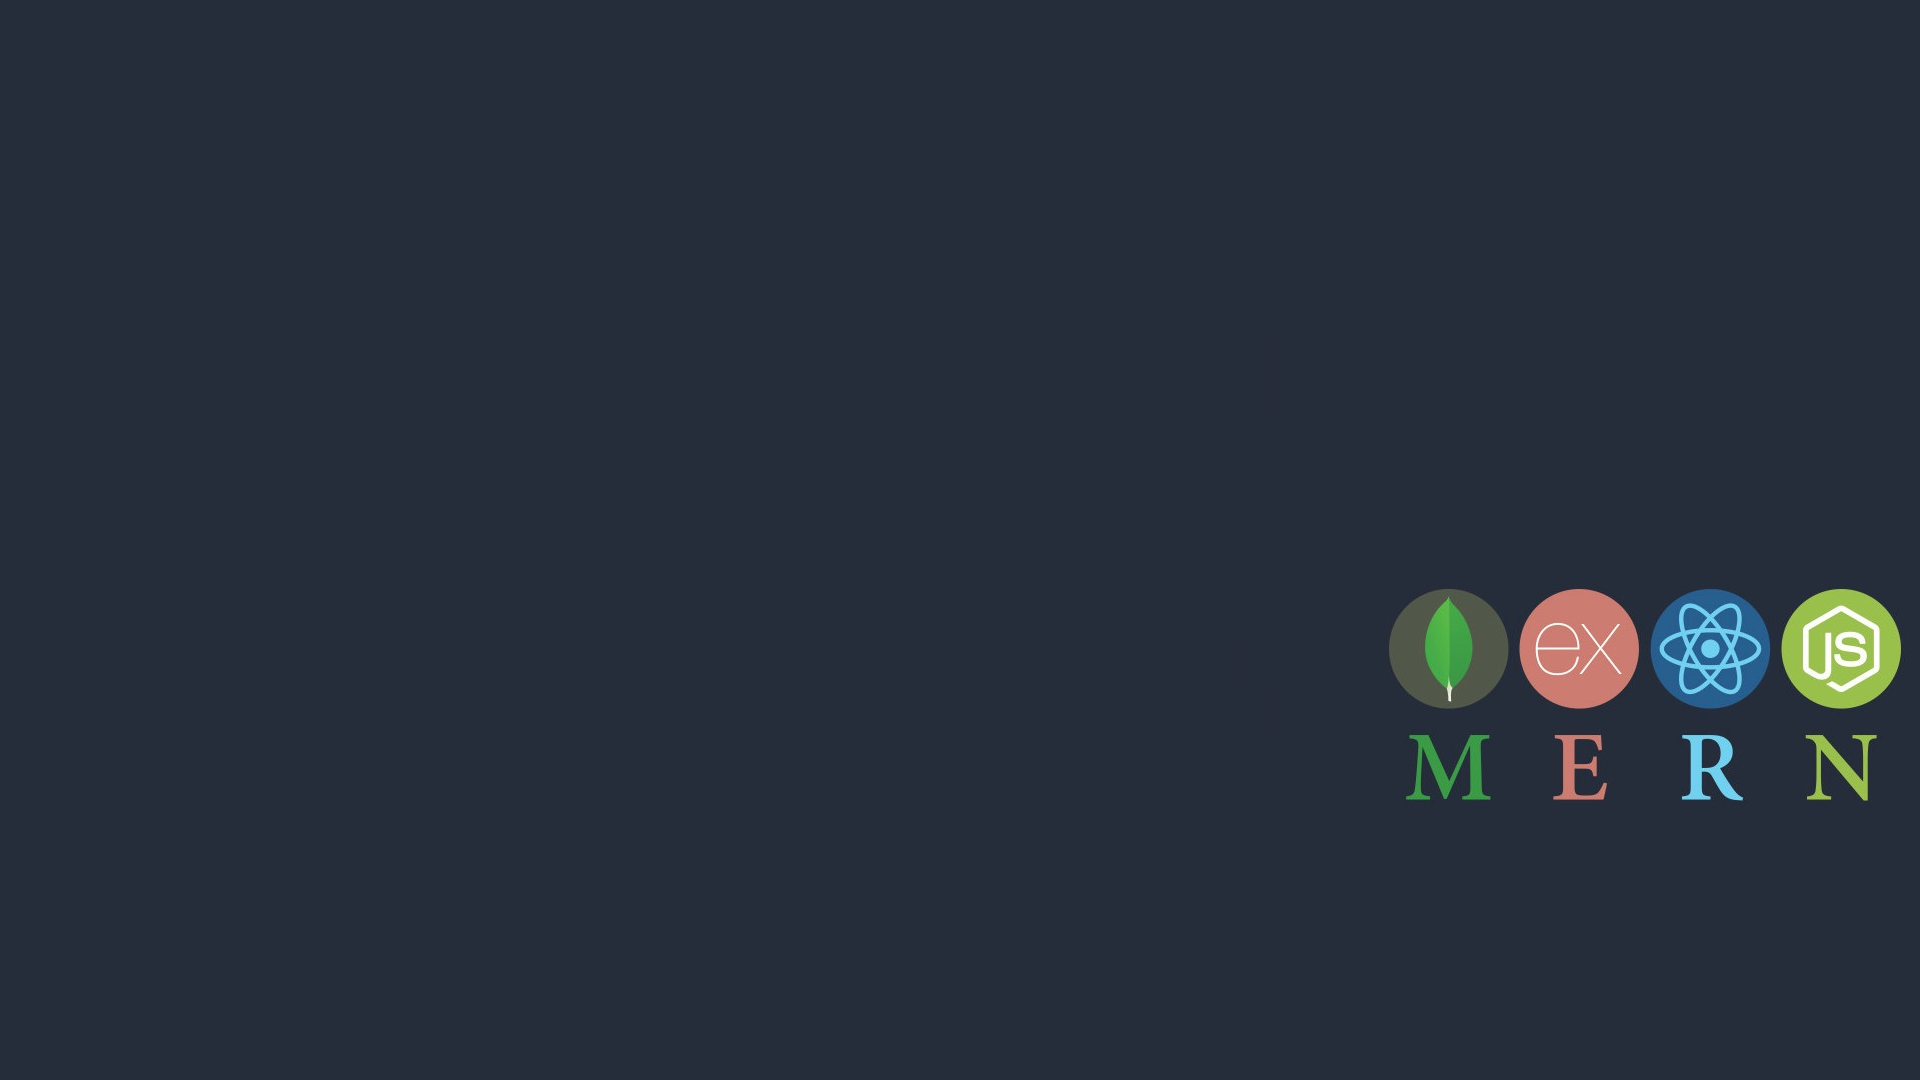
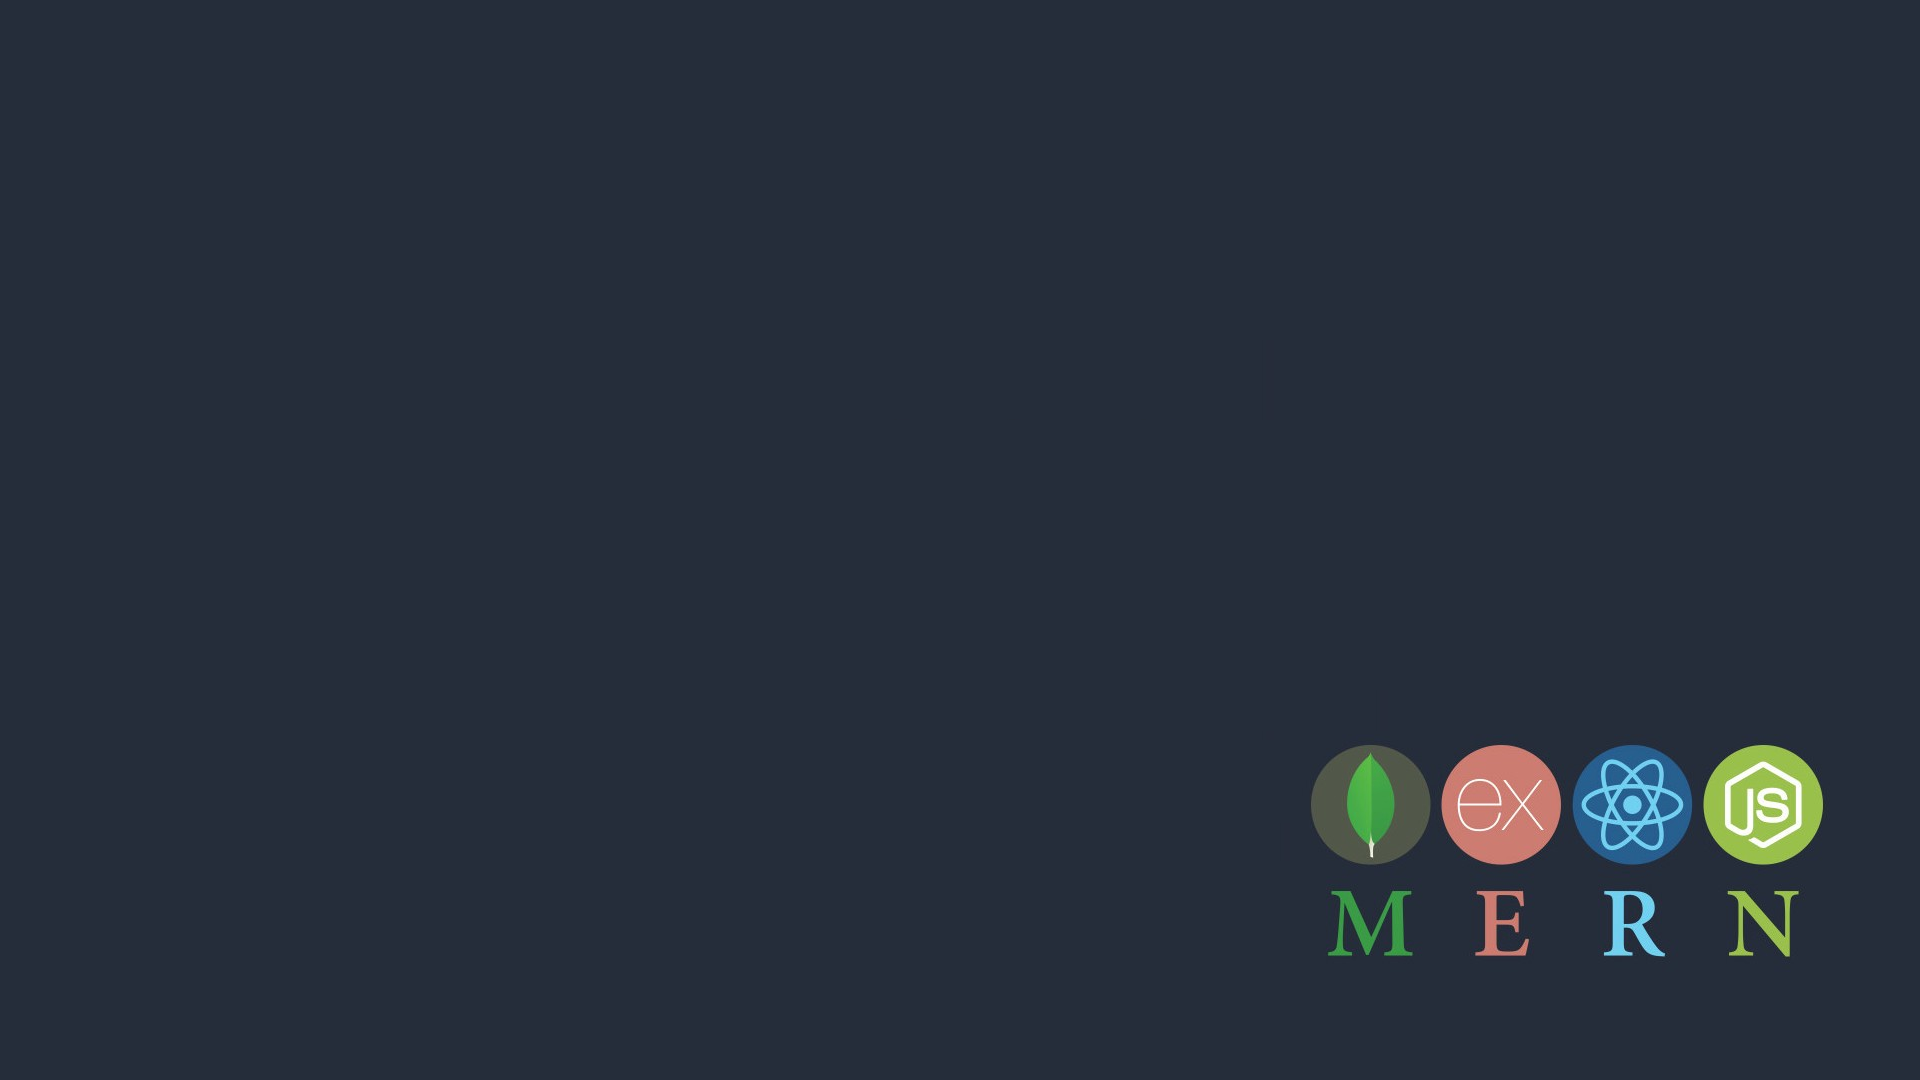
Modificar background y disposicion de Hero

Changed region(s): [[0.6562, 0.55, 1.0, 0.8861]]

diff --git a/portafolio/public/css/styles.css b/portafolio/public/css/styles.css
@@ -3435,7 +3435,7 @@ input[type="button"].btn--primary:focus {
     background-color: var(--color-gray-18);
     width: 100%;
     height: 100vh;
-    min-height: calc(25.5 * var(--space));
+    min-height: calc(20.5 * var(--space));
     overflow: hidden;
     position: relative;
 }
